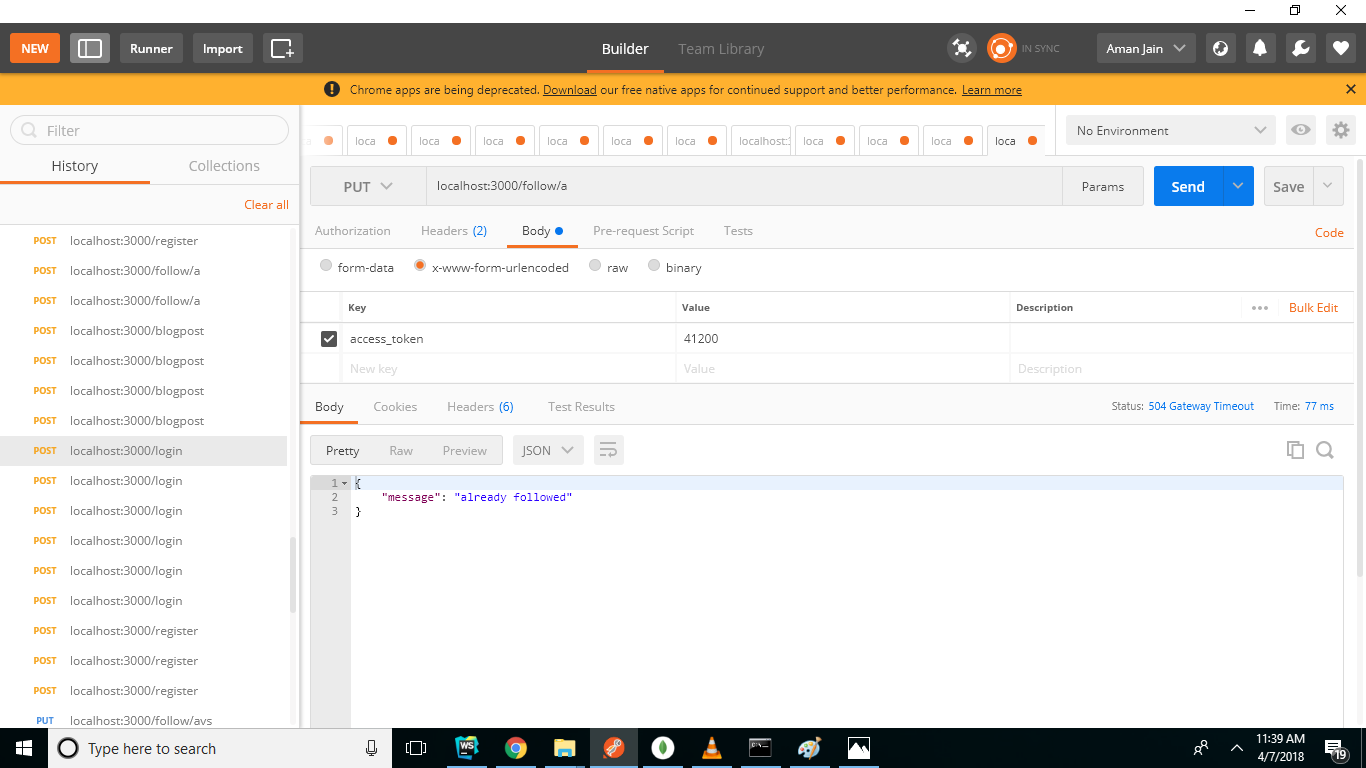
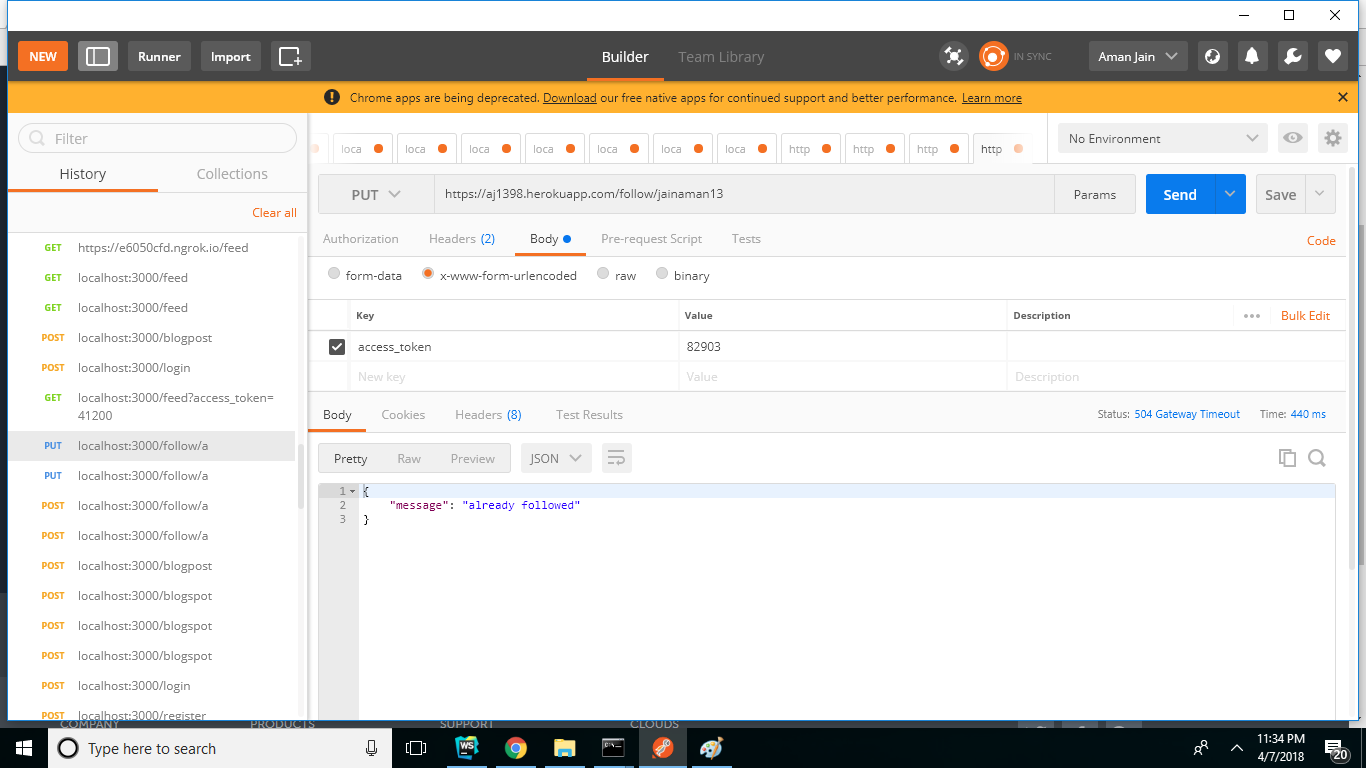
deployed on heroku

Changed region(s): [[0.0, 0.0, 1.0, 1.0], [0.7379, 0.375, 0.7994, 0.4375], [0.7379, 0.4688, 0.7994, 0.5]]

diff --git a/README.md b/README.md
@@ -1,6 +1,12 @@
 # Blog_app
 REST API's for blogging Application
 
+## Hosted App link
+
+```
+https://aj1398.herokuapp.com
+```
+
 ## STEPS TO SETUP
 
 1) Install dependencies
